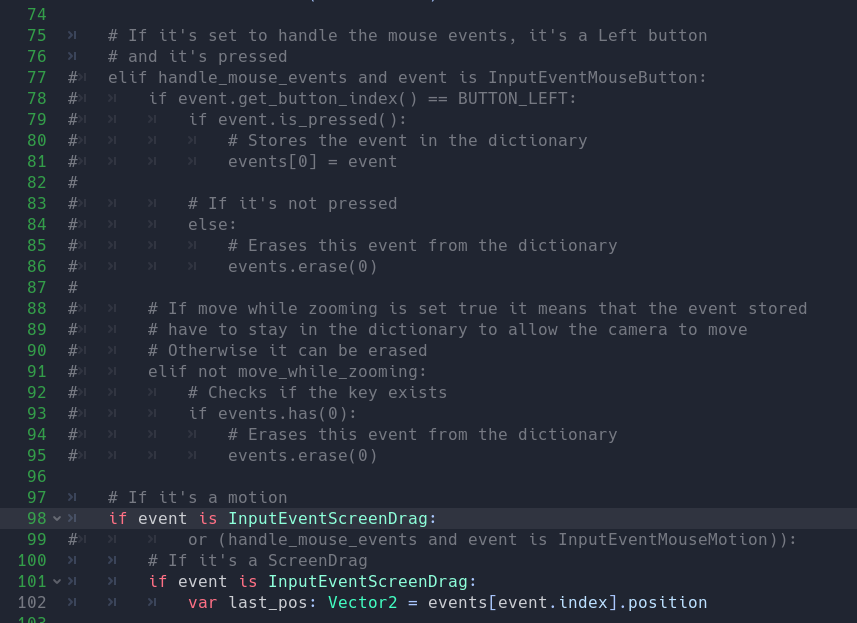
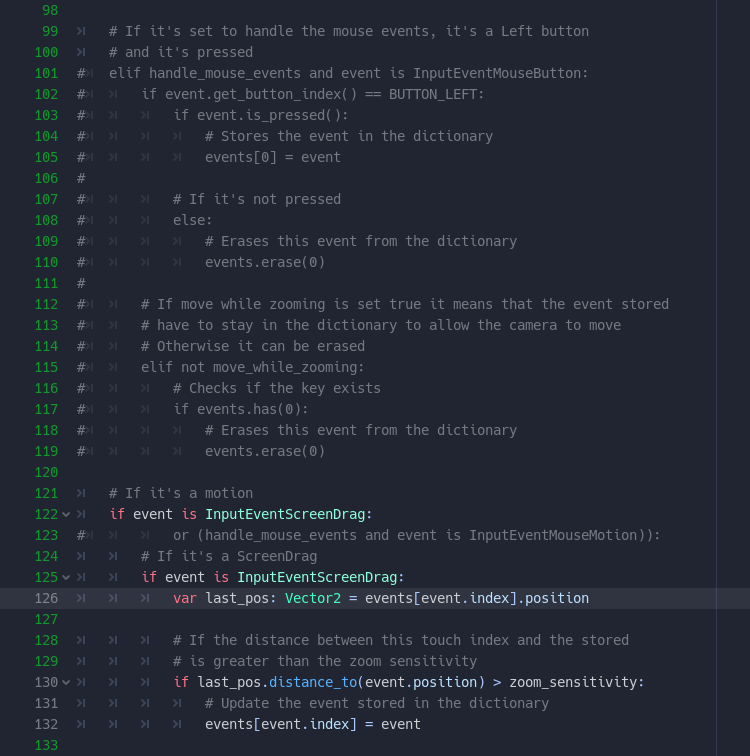
Update README and screenshots

Changed region(s): [[0.0, 0.0, 0.9507, 1.0], [0.7053, 0.7624, 0.7667, 0.7929]]

diff --git a/README.md b/README.md
@@ -83,6 +83,18 @@ to the camera position.
     <img src="https://raw.githubusercontent.com/williambcosta/godot-touch-camera-2d/master/screenshots/zoom_at_point.gif" width="450" alt="Zoom at a specific point">
 </p>
 
+## Stop moving on camera's limit
+
+If you change the value of the camera's limits, by default, the script will
+stop moving the camera's position to prevent pan issues. But if you desire
+a more smooth action, the script can allow the user mo move the camera
+beyond the limit. After the move action be release the camera will move
+itself to the limit smoothly
+
+<p align="center">
+    <img src="https://raw.githubusercontent.com/williambcosta/godot-touch-camera-2d/master/screenshots/stop-on-limit.gif" alt="Stop moving on camera's limit">
+</p>
+
 ## Known issues
 
 ### Control Nodes
@@ -124,10 +136,10 @@ But when moving the camera it causes the drag to double, e.g clicking and
 dragging the mouse 10 pixels, will move the camera 20.
 
 So, if you really need to emulate the touch, you'll need to change the script.
-Adjusting the if statement at the line 98 from this
+Adjusting the if statement at the line 122 from this
 `if ((event is InputEventScreenDrag)` to this `if event is InputEventScreenDrag:`
-and deleting the line 99 as well, should do the trick. The lines 74 thru
-95 will not be needed anymore so feel free to delete them.
+and deleting the line 99 as well, should do the trick. The lines 99 thru
+119 will not be needed anymore so feel free to delete them.
 
 <p align="center">
     <img src="https://raw.githubusercontent.com/williambcosta/godot-touch-camera-2d/master/screenshots/script_ajustments.png" width="500" alt="Script ajustments">
